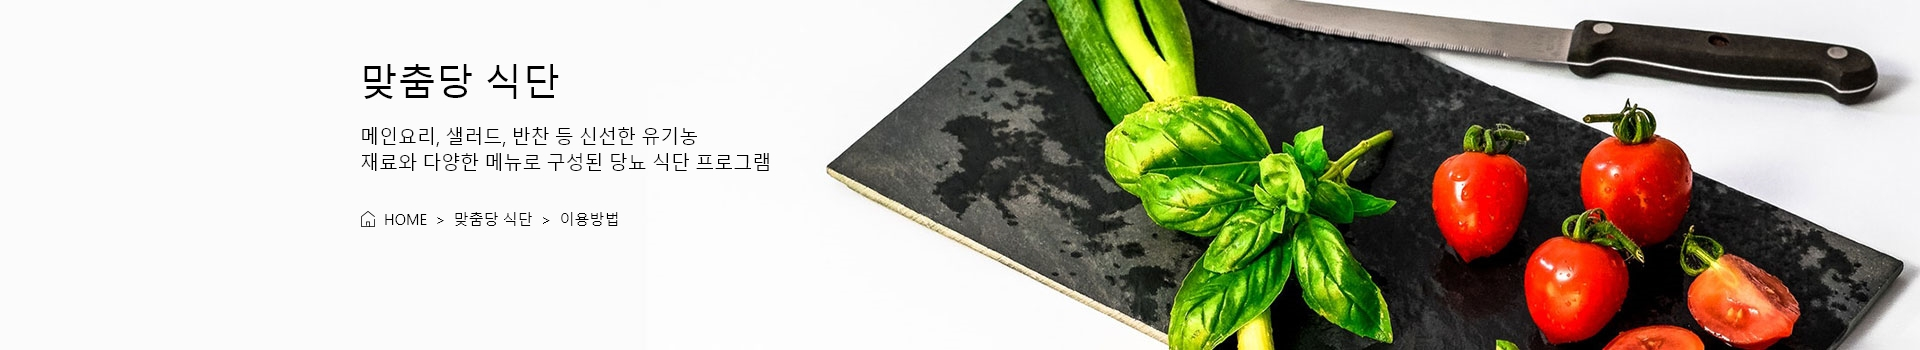
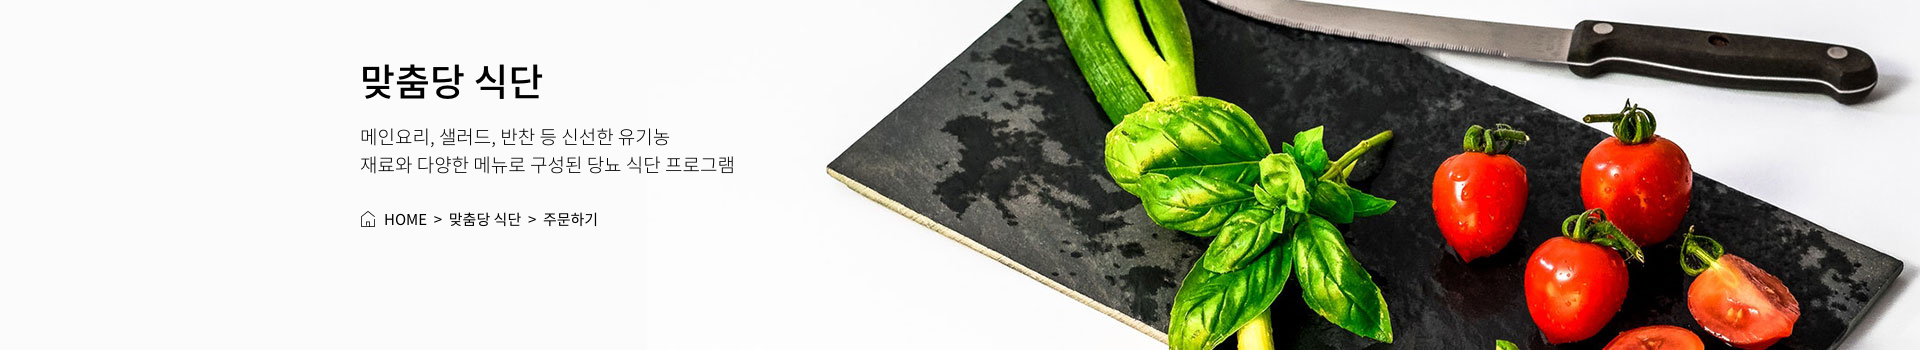
마이페이지 수정 , 관심상품 삭제, 메인 디자인, 이미지 수정 , 상품상세페이지 작업

Changed region(s): [[0.1875, 0.3429, 0.4062, 0.5143], [0.1875, 0.1714, 0.2812, 0.2857], [0.1875, 0.6, 0.3125, 0.6571]]

diff --git a/src/components/MarketDetail.vue b/src/components/MarketDetail.vue
@@ -15,22 +15,31 @@
                             <strong>중량 : </strong>
                             <span class="weight_text">1,450 g(셀프부대찌개재료:662 g,사골육수:650 g,신라면:120 g,체다슬라이스치즈:18 g)</span>
                         </dd>
-                        <dd>
+                        <dd class="expiration_date">
                             <strong>유통기한 : </strong>
                             <span class="weight_text weight_text_v1">
                                 셀프부대찌개재료 : 제조일로부터 냉장 4일, 사골육수 : 제조일로부터 냉동 180일<br>신라면 : 제조일로부터 6개월, 체다슬라이스치즈 : 제조일로부터 6개월</span>
                         </dd>
-                        <dd>
+                        <dd class="shipping_guide">
                             <strong>배송안내 : </strong>
                             <span class="free_delivery">무료배송</span>
                         </dd>
-                        <dd><strong>수량 : </strong></dd>
+                        <dd>
+                            <strong>수량 : </strong>
+                            <div class="quantity">
+                                <span class="bt_up"><img src="../assets/img/minus.png" alt="빼기 버튼"></span>
+                                <input type="text" name="num" value="1" id="" class="num" title="상품수량" readonly/>
+                                <span class="bt_down"><img src="../assets/img/plus.png" alt="더하기 버튼"></span>
+                            </div> 
+                        </dd>
                     </dl>
                     <div class="detail_info_bottom">
-                        <div class="total_price"><strong>총 판매금액 : <span class="info_caption">9,900원</span></strong></div>
+                        <div class="total_price"><strong>총 판매금액 : <span class="price_num">9,900원</span></strong></div>
                         <ul class="market_detail_btn">
                             <li>
-                                <router-link to="">바로구매</router-link>
+                                <router-link to="" class="buy">바로 구매</router-link>
+                            </li>
+                            <li>
                                 <router-link to="">장바구니</router-link>
                             </li>
                         </ul>
@@ -97,30 +106,38 @@
         text-decoration: underline;
      }
     .total_price{
+        margin-top: 24px;
         font-size: 20px;
         strong{
             font-weight: 500;
         }
         span{
-            font-size:20px;
+            font-size:22px;
         }
     }
     .item{
+        border-bottom: 1px solid #E5E5E5;
+        padding-bottom: 26px;
         dd{
+            margin-top:23px;
             font-size: 20px;
             strong{
                 font-weight: 300;
+                margin-right: 5px;
             }
         }
         .title{
             font-size:26px;
+            margin-bottom: 35px;
             strong{
                 font-weight: 500;
             }
         }
-        .price_num{
-            color: #85AF4B;
-            font-weight: 400;
+        .expiration_date{
+            margin-top:12px;
+        }
+        .shipping_guide{
+            margin-top: 15px;
         }
         .weight_text{
             font-size:15px;
@@ -135,11 +152,63 @@
         }
     }
 }
-
+.price_num{
+            color: #85AF4B;
+            font-weight: 400;
+        }
+.quantity{
+    display: inline-block;
+    .num{
+        width: 26px;
+        height: 24px;
+        padding: 0;
+        font-size: 14px;
+        border: 1px solid #BDBDBD;
+        text-align: center;
+    }
+    .bt_up, .bt_down{
+        text-align: center;
+        padding-top: 7px;
+        display: inline-block;
+        width: 26px;
+        height: 17px;
+        font-size: 20px;
+        border: 1px solid #BDBDBD;
+        vertical-align: middle;
+    }
+    .bt_up{
+        border-right: 0;
+    }
+    .bt_down{
+        border-left: 0;
+    }
+}
 .market_detail_bottom {
     margin-top: 140px;
 }
-
+.market_detail_btn{
+    margin-top: 35px;
+    li{
+        display: inline-block;
+        margin-right: 15px;
+        &:last-child{
+            margin-right: 0;
+        }
+        a{
+            display: inline-block;
+            border: 1px solid #009D54;
+            color: #009D54;
+            padding: 10px 85px;
+            font-size:16px;
+            border-radius: 30px;
+            &.buy{
+                background: #85AF4B;
+                color: #fff;
+                border: 1px solid #85AF4B;
+            }
+        }
+    }
+}
 .market_detail_tab {
     li {
         display: inline-block;
@@ -186,6 +255,18 @@ export default {
                 $(".detail_tab_content").eq(idx).addClass("on");
             });
         });
+        $(function(){ 
+        $('.bt_up').click(function(){ 
+            var n = $('.bt_up').index(this);
+            var num = $(".num:eq("+n+")").val();
+            num = $(".num:eq("+n+")").val(num*1+1); 
+        });
+        $('.bt_down').click(function(){ 
+            var n = $('.bt_down').index(this);
+            var num = $(".num:eq("+n+")").val();
+            num = $(".num:eq("+n+")").val(num*1-1); 
+        });
+        }) 
     }
 }
 </script>

diff --git a/src/components/Mypage.vue b/src/components/Mypage.vue
@@ -24,15 +24,8 @@
                 <div class="mypage_content">
                     <router-link to="/" class="left_menu">
                         <dl>
-                            <dt>회원정보</dt>
-                            <dd>회원이신 고객님의 개인정보를 관리하는 공간입니다.</dd>
-                            <dd>개인정보를 최신 정보로 유지하시면 보다 간편히 쇼핑을 즐기실 수 있습니다.</dd>
-                        </dl>
-                    </router-link>
-                    <router-link to="/cart" class="right_menu">
-                        <dl>
-                            <dt>주문내역 </dt>
-                            <dd>고객님께서 주문하신 상품의<br>주문내역을 확인하실 수 있습니다.</dd>
+                            <dt>장바구니</dt>
+                            <dd>고객님의 ‘식’ 을 담은 장바구니<br>주문하시기 전에 장바구니를 확인하세요.</dd>
                         </dl>
                     </router-link>
                 </div>

diff --git a/src/components/Diet.vue b/src/components/Diet.vue
@@ -306,9 +306,6 @@
                       <span @click="getOrderItem">바로 결제하기</span>
                     </li>
                     <li>
-                      <router-link to="/">관심상품</router-link>
-                    </li>
-                    <li>
                       <router-link to="/">장바구니</router-link>
                     </li>
                   </ul>
@@ -374,7 +371,8 @@
         text-align: center;
         font-size: 18px;
         &.on {
-          color: #538700;
+          color: #2e7b48;
+          font-weight: 600;
           &::after {
             position: absolute;
             left: 158px;

diff --git a/src/components/Main.vue b/src/components/Main.vue
@@ -163,12 +163,12 @@
   }
 }
 .main_title_box {
-  margin-top: 83px;
+  margin-top: 65px;
   text-align: center;
   .main_title {
     font-size: 20px;
     margin-bottom: 5px;
-    font-weight: 300;
+    font-weight: 600;
   }
   .main_title_caption {
     font-size: 15px;
@@ -232,6 +232,11 @@
     color: #000;
     border: 1px solid #707070;
     border-radius: 16px;
+    &:hover{
+      color: #fff;
+      border: 1px solid #85af4b;
+      background: #85af4b;
+    }
   }
 }
 .white {

diff --git a/src/components/Market.vue b/src/components/Market.vue
@@ -201,7 +201,9 @@
             margin: 0 5px;
             padding-bottom: 50px;
             a{
+                display: block;
                 .market_product_img{
+                    overflow: hidden;
                     height:391px;
                     background: red;
                 }
